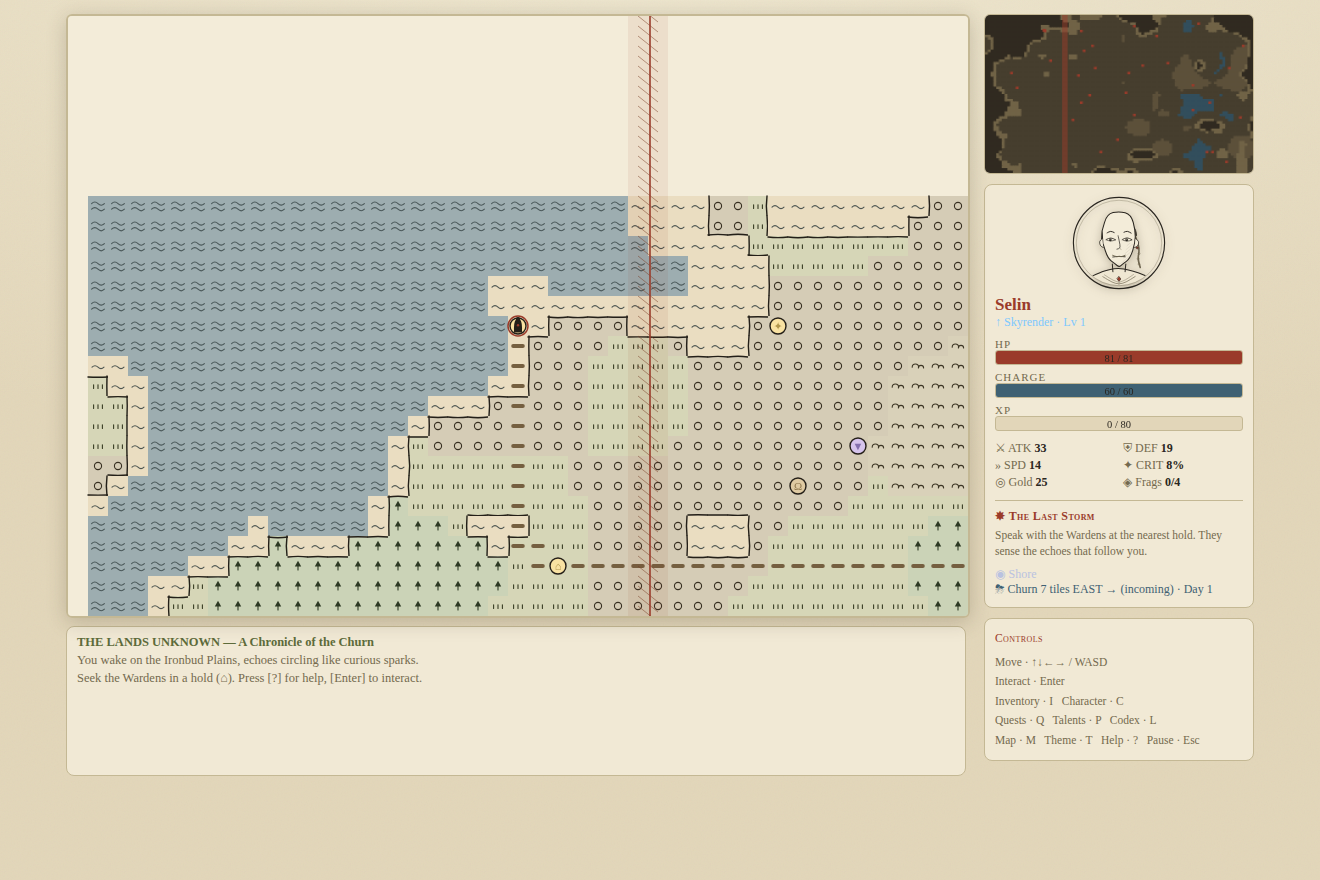
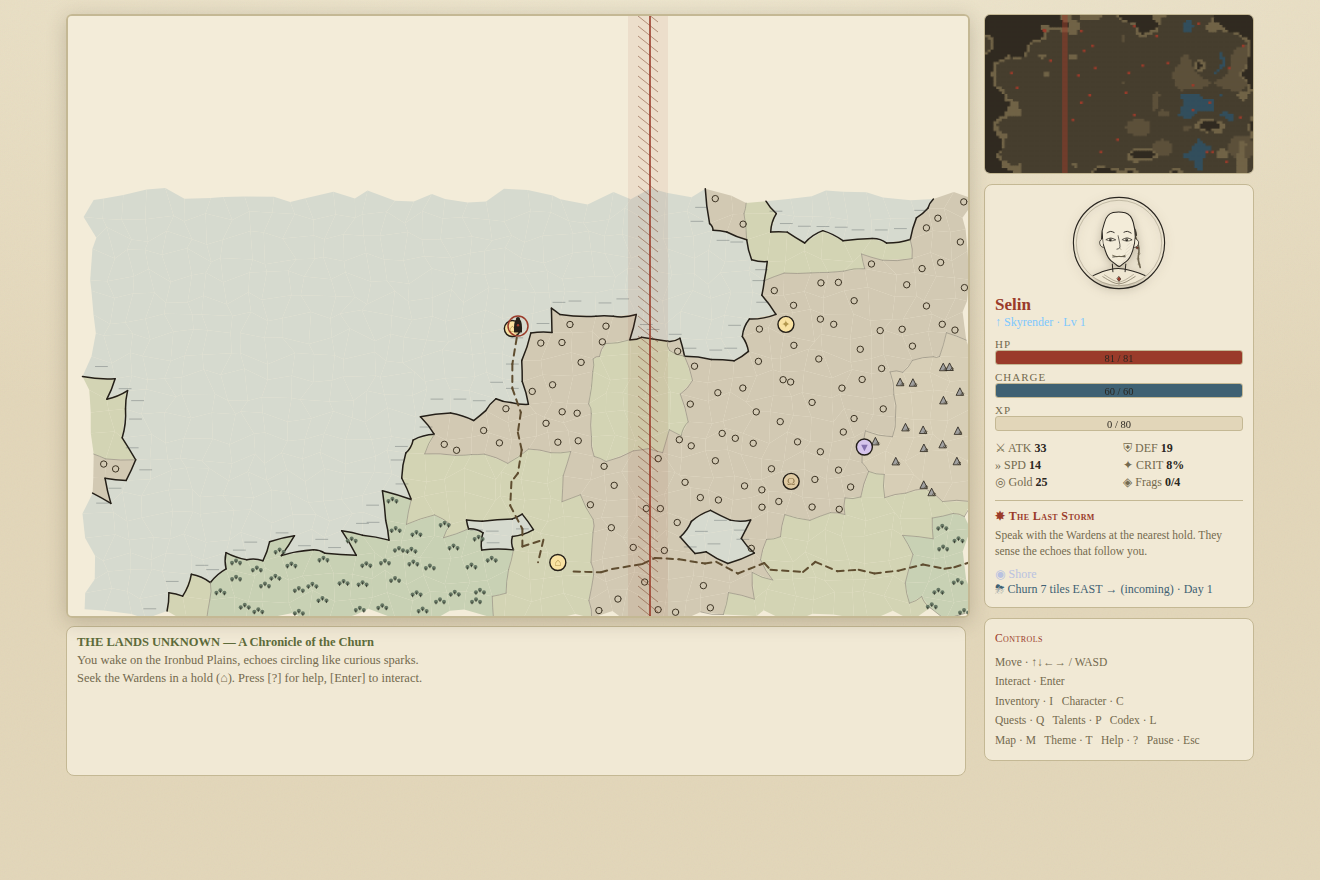
Hand-drawn organic polygon overworld (new default map style)
Replace the tile-grid feel with an organic, multi-polygonal map in the
Azgaar/mapgen2 spirit, as the default overworld ("Hand-Drawn Realm";
M still cycles to Chart / Vellum / Survey).

How it works:
- A deterministic jittered shared-corner mesh: each world corner is
  offset 0.17–0.44 tile by a hash of (corner, world seed) and cached, so
  every tile becomes an irregular quad that tiles seamlessly with its
  neighbours — no straight grid lines.
- Edges are drawn ONLY at biome boundaries, so like-terrain cells merge
  into soft organic regions; coastlines (land/sea) are bold wobbly inked
  curves, biome borders faint — both bowed via a seeded quadratic.
- Sea gets coast-hugging hatch ticks; terrain icons (mountain ranges,
  woods, hills, dunes, crater rings) are reused from the relief set and
  hash-gated so they sprinkle like hand-placed marks rather than tile.
- Roads draw as an organic dashed trail between cell centres; sites as
  framed pins; the hooded hero + hatched Churn front are shared.

Themed via the palette; uncharted ground stays blank parchment. All
suites green (837 logic, browser, mobile), zero console errors.

Claude-Session: https://claude.ai/code/session_012JuAjoBx2YqM5W9EUw89GY

Changed region(s): [[0.0621, 0.2148, 0.7455, 0.7057]]

diff --git a/src/render.js b/src/render.js
@@ -50,11 +50,11 @@
   function themed() { return TLU.Theme && TLU.Theme.activeId !== 'storm'; }
 
   // ---- overworld viewport — a hand-drawn world map, in three styles ----
-  const MAP_STYLES = ['chart', 'vellum', 'survey'];
-  const MAP_STYLE_NAMES = { chart: 'Field Chart', vellum: 'Old Vellum', survey: 'Survey Map' };
-  let MAP_STYLE = (function () { try { return localStorage.getItem('tlu_mapstyle') || 'chart'; } catch (e) { return 'chart'; } })();
-  if (MAP_STYLES.indexOf(MAP_STYLE) < 0) MAP_STYLE = 'chart';
-  function setMapStyle(s) { if (MAP_STYLES.indexOf(s) < 0) s = 'chart'; MAP_STYLE = s; try { localStorage.setItem('tlu_mapstyle', s); } catch (e) {} }
+  const MAP_STYLES = ['realm', 'chart', 'vellum', 'survey'];
+  const MAP_STYLE_NAMES = { realm: 'Hand-Drawn Realm', chart: 'Field Chart', vellum: 'Old Vellum', survey: 'Survey Map' };
+  let MAP_STYLE = (function () { try { return localStorage.getItem('tlu_mapstyle') || 'realm'; } catch (e) { return 'realm'; } })();
+  if (MAP_STYLES.indexOf(MAP_STYLE) < 0) MAP_STYLE = 'realm';
+  function setMapStyle(s) { if (MAP_STYLES.indexOf(s) < 0) s = 'realm'; MAP_STYLE = s; try { localStorage.setItem('tlu_mapstyle', s); } catch (e) {} }
   function cycleMapStyle() { setMapStyle(MAP_STYLES[(MAP_STYLES.indexOf(MAP_STYLE) + 1) % MAP_STYLES.length]); return MAP_STYLE; }
 
   // a charted, in-bounds tile or null
@@ -90,7 +90,8 @@
 
     if (MAP_STYLE === 'vellum') drawVellum(env);
     else if (MAP_STYLE === 'survey') drawSurvey(env);
-    else drawChart(env);
+    else if (MAP_STYLE === 'chart') drawChart(env);
+    else drawRealm(env);
 
     if (game.storm && game.storm.active) drawChurn(ctx, disp, game, ox, oy);
     drawHero(ctx, halfC * cell + cell / 2, halfR * cell + cell / 2, cell, ink, TC('#9a3b2a', 'accent'));
@@ -419,6 +420,110 @@
     else if (site.type === 'vault') { ctx.beginPath(); ctx.moveTo(cx, cy - u * 0.2); ctx.lineTo(cx + u * 0.2, cy + u * 0.16); ctx.lineTo(cx - u * 0.2, cy + u * 0.16); ctx.closePath(); ctx.fill(); ctx.stroke(); }
     else if (site.type === 'ruin' || site.type === 'lair') { ctx.beginPath(); ctx.arc(cx, cy, u * 0.2, 0, Math.PI * 2); ctx.fill(); ctx.stroke(); ctx.beginPath(); ctx.moveTo(cx - u * 0.12, cy - u * 0.12); ctx.lineTo(cx + u * 0.12, cy + u * 0.12); ctx.moveTo(cx + u * 0.12, cy - u * 0.12); ctx.lineTo(cx - u * 0.12, cy + u * 0.12); ctx.stroke(); }
     else { ctx.beginPath(); ctx.arc(cx, cy, u * 0.16, 0, Math.PI * 2); ctx.fill(); ctx.stroke(); ctx.fillStyle = ink; dot(ctx, cx, cy, u * 0.04); }
+    ctx.restore();
+  }
+
+  // ===== STYLE 0 (default): Hand-Drawn Realm — organic polygon map =====
+  // A jittered shared-corner mesh turns each tile into an irregular polygon.
+  // Edges are drawn ONLY at biome boundaries, so same-terrain cells merge
+  // into organic regions; coastlines become wobbly hand-inked curves.
+  function corner(env, cx, cy) {
+    const w = env.w;
+    if (!w._cj) w._cj = Object.create(null);
+    const key = (cx + 2048) * 100000 + (cy + 2048);
+    let c = w._cj[key]; if (c) return c;
+    const h = (TLU.hashSeed ? TLU.hashSeed(cx + '_' + cy + '_' + (env.game && env.game.seed)) : (((cx * 73856093) ^ (cy * 19349663)) >>> 0));
+    const ang = (h & 4095) / 4095 * Math.PI * 2;
+    const mag = 0.17 + ((h >>> 12) & 255) / 255 * 0.27;   // 0.17 .. 0.44 tile
+    c = { x: cx + Math.cos(ang) * mag, y: cy + Math.sin(ang) * mag };
+    w._cj[key] = c; return c;
+  }
+  function cpx(env, c) { return [(c.x - env.ox) * env.cell, (c.y - env.oy) * env.cell]; }
+  function bgroup(t) {
+    if (!t) return 'none';
+    switch (t.glyph) {
+      case '~': case '.': return 'sea';
+      case '▲': return 'mtn'; case 'n': return 'hill'; case '♣': return 'forest';
+      case '=': return 'plateau'; case 'o': return 'crater'; case '§': return 'churn'; case ':': return 'desert';
+      default: return 'plain';
+    }
+  }
+  function drawEdge(env, a, b, col, lw) {
+    const ctx = env.ctx, A = cpx(env, a), B = cpx(env, b);
+    const mx = (A[0] + B[0]) / 2, my = (A[1] + B[1]) / 2, dx = B[0] - A[0], dy = B[1] - A[1];
+    const len = Math.hypot(dx, dy) || 1, bow = ((((a.x * 53 + a.y * 131) % 1) + 1) % 1 - 0.5) * env.cell * 0.28;
+    ctx.strokeStyle = col; ctx.lineWidth = lw;
+    ctx.beginPath(); ctx.moveTo(A[0], A[1]);
+    ctx.quadraticCurveTo(mx + (-dy / len) * bow, my + (dx / len) * bow, B[0], B[1]); ctx.stroke();
+  }
+
+  function drawRealm(env) {
+    const { ctx, cell, base, ink, ink2 } = env;
+    ctx.save(); ctx.lineCap = 'round'; ctx.lineJoin = 'round';
+
+    // PASS 1 — polygon fills (each tile = its 4 jittered corners)
+    for (let sy = 0; sy < env.rows; sy++) for (let sx = 0; sx < env.cols; sx++) {
+      const mx = env.ox + sx, my = env.oy + sy, t = vtile(env, mx, my); if (!t) continue;
+      const TL = cpx(env, corner(env, mx, my)), TR = cpx(env, corner(env, mx + 1, my)),
+        BR = cpx(env, corner(env, mx + 1, my + 1)), BL = cpx(env, corner(env, mx, my + 1));
+      ctx.beginPath(); ctx.moveTo(TL[0], TL[1]); ctx.lineTo(TR[0], TR[1]); ctx.lineTo(BR[0], BR[1]); ctx.lineTo(BL[0], BL[1]); ctx.closePath();
+      ctx.fillStyle = isWater(t) ? mix(base, '#9fb6bd', 0.34) : mix(base, t.color, t.glyph === '§' ? 0.3 : 0.24);
+      ctx.fill();
+    }
+
+    // PASS 2 — edges only at boundaries (so like-terrain merges into regions)
+    const coastCol = ink, borderCol = mix(ink, base, 0.55);
+    for (let sy = 0; sy < env.rows; sy++) for (let sx = 0; sx < env.cols; sx++) {
+      const mx = env.ox + sx, my = env.oy + sy, t = vtile(env, mx, my); if (!t) continue;
+      const g = bgroup(t), sea = g === 'sea';
+      // right edge
+      const rRaw = rtile(env, mx + 1, my), rSeen = vtile(env, mx + 1, my);
+      if (rRaw && ((sea) !== (bgroup(rRaw) === 'sea'))) drawEdge(env, corner(env, mx + 1, my), corner(env, mx + 1, my + 1), coastCol, Math.max(1.3, cell * 0.075));
+      else if (rSeen && !sea && bgroup(rSeen) !== 'sea' && bgroup(rSeen) !== g) drawEdge(env, corner(env, mx + 1, my), corner(env, mx + 1, my + 1), borderCol, Math.max(0.7, cell * 0.03));
+      // down edge
+      const dRaw = rtile(env, mx, my + 1), dSeen = vtile(env, mx, my + 1);
+      if (dRaw && ((sea) !== (bgroup(dRaw) === 'sea'))) drawEdge(env, corner(env, mx, my + 1), corner(env, mx + 1, my + 1), coastCol, Math.max(1.3, cell * 0.075));
+      else if (dSeen && !sea && bgroup(dSeen) !== 'sea' && bgroup(dSeen) !== g) drawEdge(env, corner(env, mx, my + 1), corner(env, mx + 1, my + 1), borderCol, Math.max(0.7, cell * 0.03));
+    }
+
+    // PASS 3 — sea hatch near the coast, for a charted-water feel
+    ctx.strokeStyle = mix(ink, '#3f5a70', 0.5); ctx.lineWidth = Math.max(0.6, cell * 0.03);
+    for (let sy = 0; sy < env.rows; sy++) for (let sx = 0; sx < env.cols; sx++) {
+      const mx = env.ox + sx, my = env.oy + sy, t = vtile(env, mx, my); if (!isWater(t)) continue;
+      let coast = false; for (const d of [[1, 0], [-1, 0], [0, 1], [0, -1]]) { const nb = rtile(env, mx + d[0], my + d[1]); if (nb && bgroup(nb) !== 'sea') { coast = true; break; } }
+      if (!coast) continue;
+      const cn = corner(env, mx, my), C = cpx(env, { x: cn.x + 0.5, y: cn.y + 0.5 });
+      ctx.globalAlpha = 0.5; ctx.beginPath(); ctx.moveTo(C[0] - cell * 0.3, C[1]); ctx.lineTo(C[0] + cell * 0.3, C[1]); ctx.stroke(); ctx.globalAlpha = 1;
+    }
+
+    // PASS 4 — terrain icons sprinkled across the regions (hash-gated so they
+    // read as hand-placed, not tiled). Reuses the relief icon set.
+    for (let sy = 0; sy < env.rows; sy++) for (let sx = 0; sx < env.cols; sx++) {
+      const mx = env.ox + sx, my = env.oy + sy, t = vtile(env, mx, my); if (!t || isWater(t) || t.site || t.road) continue;
+      if (t.glyph === '"') continue; // leave open plains uncluttered
+      const g = bgroup(t);
+      const gate = (((mx * 92821 + my * 53987) >>> 3) & 7);     // 0..7, deterministic
+      const keep = (g === 'mtn' || g === 'forest') ? gate < 6 : gate < 4; // ranges/woods denser
+      if (!keep) continue;
+      const ct = corner(env, mx, my), cen = cpx(env, { x: ct.x + 0.5, y: ct.y + 0.5 });
+      vellumRelief(ctx, cen[0] - cell / 2, cen[1] - cell / 2, cell, t.glyph, mix(ink, t.color, 0.35), ink);
+    }
+
+    // PASS 5 — roads as an organic dashed trail through cell centres
+    ctx.strokeStyle = mix(ink, '#9a7a48', 0.5); ctx.lineWidth = Math.max(1.4, cell * 0.1); ctx.setLineDash([cell * 0.32, cell * 0.26]);
+    for (let sy = 0; sy < env.rows; sy++) for (let sx = 0; sx < env.cols; sx++) {
+      const mx = env.ox + sx, my = env.oy + sy, t = vtile(env, mx, my); if (!t || !t.road || t.site) continue;
+      const ct = corner(env, mx, my), C = cpx(env, { x: ct.x + 0.5, y: ct.y + 0.5 });
+      for (const d of [[1, 0], [0, 1]]) { const nb = vtile(env, mx + d[0], my + d[1]); if (nb && nb.road) { const cn2 = corner(env, mx + d[0], my + d[1]), N = cpx(env, { x: cn2.x + 0.5, y: cn2.y + 0.5 }); ctx.beginPath(); ctx.moveTo(C[0], C[1]); ctx.lineTo(N[0], N[1]); ctx.stroke(); } }
+    }
+    ctx.setLineDash([]);
+
+    // PASS 6 — pins at cell centres
+    for (let sy = 0; sy < env.rows; sy++) for (let sx = 0; sx < env.cols; sx++) {
+      const mx = env.ox + sx, my = env.oy + sy, t = vtile(env, mx, my); if (!t || !t.site) continue;
+      const ct = corner(env, mx, my), cen = cpx(env, { x: ct.x + 0.5, y: ct.y + 0.5 });
+      drawPin(ctx, cen[0] - cell / 2, cen[1] - cell / 2, cell, t.site, base, ink);
+    }
     ctx.restore();
   }
 

diff --git a/test/overworld-shot.js b/test/overworld-shot.js
@@ -34,7 +34,7 @@ const OUT = path.join(ROOT, 'assets', 'design');
   await page.screenshot({ path: path.join(OUT, 'overworld-map.png') });
 
   // one crop of the map canvas per style
-  for (const style of ['chart', 'vellum', 'survey']) {
+  for (const style of ['realm', 'chart', 'vellum', 'survey']) {
     await page.evaluate((s) => { window.TLU.Render.setMapStyle(s); window.GAME.render(); }, style);
     await page.waitForTimeout(120);
     const map = await page.$('#map-wrap');

diff --git a/README.md b/README.md
@@ -188,7 +188,11 @@ or fill the **Codex** bestiary to see it. A standalone gallery lives at `design/
   premade looks to pick from, with **reroll** for fresh sets and **presentation** / **age**
   toggles. Your choice drives the generative ink portrait everywhere it appears (the HUD,
   the character sheet, dialogue), and persists with your save and your dynasty.
-- **An illustrated overworld, in three hand-drawn map styles** (cycle with **M**):
+- **An illustrated overworld, in four hand-drawn map styles** (cycle with **M**):
+  - **Hand-Drawn Realm** *(default)* — an organic polygon map: a jittered shared-corner mesh
+    turns the world into irregular cells, like-terrain merges into soft regions, and
+    coastlines & borders become wobbly hand-inked curves with terrain icons sprinkled
+    across them. No grid in sight.
   - **Field Chart** — a colourful inked working map: biome washes, hand-symbols (water
     waves, ironbud tufts, hill bumps, stonewood trees, mountains, crater rings), ink
     coastlines, framed map-pins, road trails.
